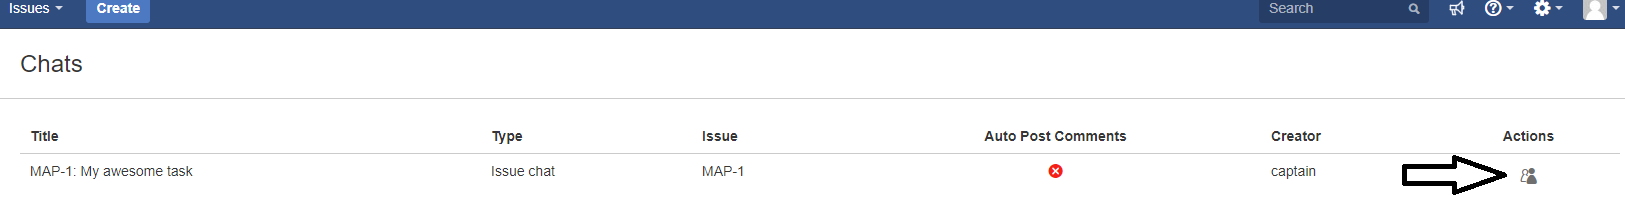
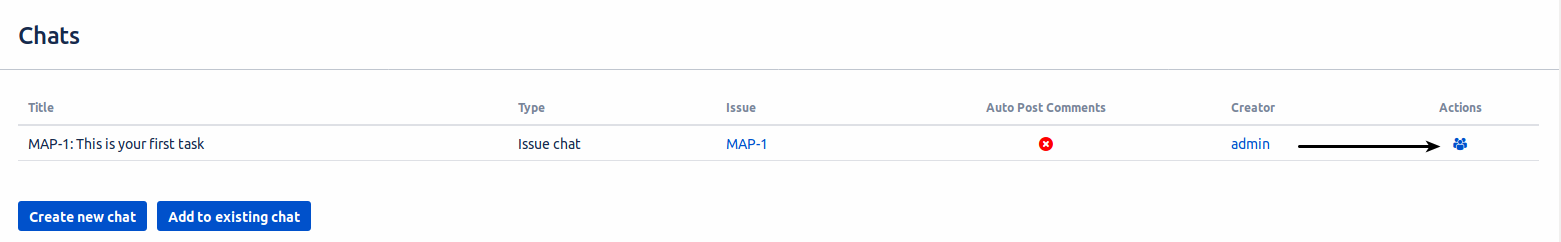
IAM-250 update docs for new features

diff --git a/telegram/user-chats.html b/telegram/user-chats.html
@@ -52,6 +52,12 @@ Enabling this option means that every message from this chat will be posted in c
          title="Click the image to open in full size"
          src="../assets/img/screenshots/telegram/user-2-create-chat2.png"/>
 </a>
+<br>Another option is <b>notification types</b> select, that determines on which events bot must send notifications to this chat.
+<a href="#" onclick="return false;">
+    <img onclick="makeFullScreen(this)" class="screenshot-small fullscreen"
+         title="Click the image to open in full size"
+         src="../assets/img/screenshots/telegram/user-2-create-chat4-notifications.png"/>
+</a>
 
 <br>You can also give some users <b>administrative privileges</b>.
 Admins can delete this chat from Jira, add and remove users , but <b>they can't manage other admins, or chat
@@ -81,7 +87,7 @@ Admins can delete this chat from Jira, add and remove users , but <b>they can't 
 <a href="#" onclick="return false;">
     <img onclick="makeFullScreen(this)" class="screenshot-small fullscreen"
          title="Click the image to open in full size"
-         src="../assets/img/screenshots/telegram/user-2-isuue-view.png"/>
+         src="../assets/img/screenshots/telegram/user-2-issue-view.png"/>
 </a>
 <br>
 </p>
@@ -109,4 +115,28 @@ Admins can delete this chat from Jira, add and remove users , but <b>they can't 
     <b>Note:</b> If you delete this chat, it will be not available in Jira but it still stays in Telegram app.
     <br>
     Logged in chat users also can view this window but they can't edit anything
+</p>
+<h3>Connect issue or project with existing chat</h3>
+<p>
+    First of all, you should add bot to the chat, which you want to connect with JIRA. Bot will send the <b>connection key</b>.
+    <br>
+    <br>
+    <a href="#" onclick="return false;">
+        <img onclick="makeFullScreen(this)" class="screenshot-small fullscreen"
+             title="Click the image to open in full size"
+             src="../assets/img/screenshots/telegram/user-2-connect-chat-telegram.png"/>
+    </a>
+    <br>
+    Then go to the issue, to which you want to connect chat, or to the <b>Chats</b> section and click <b>Add to existing chat</b> button.
+    Then you will see modal window with <b>Connection key</b> field, where you should paste <b>key</b>, sent by bot.
+    <br>
+    <br>
+    <a href="#" onclick="return false;">
+        <img onclick="makeFullScreen(this)" class="screenshot-small fullscreen"
+             title="Click the image to open in full size"
+             src="../assets/img/screenshots/telegram/user-2-connect-chat-jira.png"/>
+    </a>
+    <br>
+    <b>Note:</b> This option is available for admin and users, who have connected their telegram accounts with jira by sending <b>/start</b>
+    command to bot (full authentication with code and password is required only for <b>editing</b> connected chats).
 </p>

diff --git a/telegram/bot-abilities.html b/telegram/bot-abilities.html
@@ -39,6 +39,11 @@ List of events reported by the bot:
     <br><b>/comment</b>
     <br>You can reply with this command to send replied message to JIRA or you can use it inline like this: <b>/comment</b> <i>some important text.</i>
     In order to detect replies, bot must have admin rights in current group. Works only in issue chats.
+    <br><b>/task</b>
+    <br>This command is used to create tasks directly from telegram chat. You can use this command only in private chat with bot.
+    Bot will ask you for all required fields, which are needed for task creation
+    <br><b>/work</b> &lt;<i>issue-key</i>&gt;
+    <br>You can log your work with this command only in private chat with bot. You should pass an issue key as an argument for this command (e.g. <b><i>/work ISSUE-1</i></b>).
     <br>
     <br>
     <a href="#" onclick="return false;">
